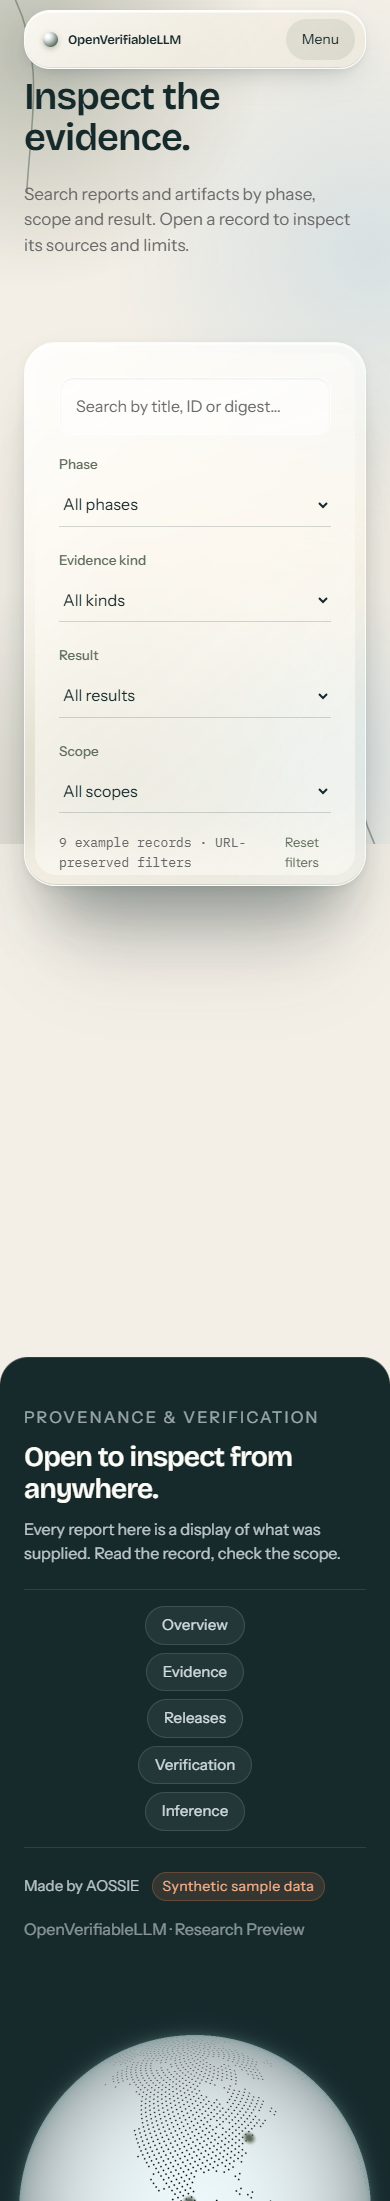
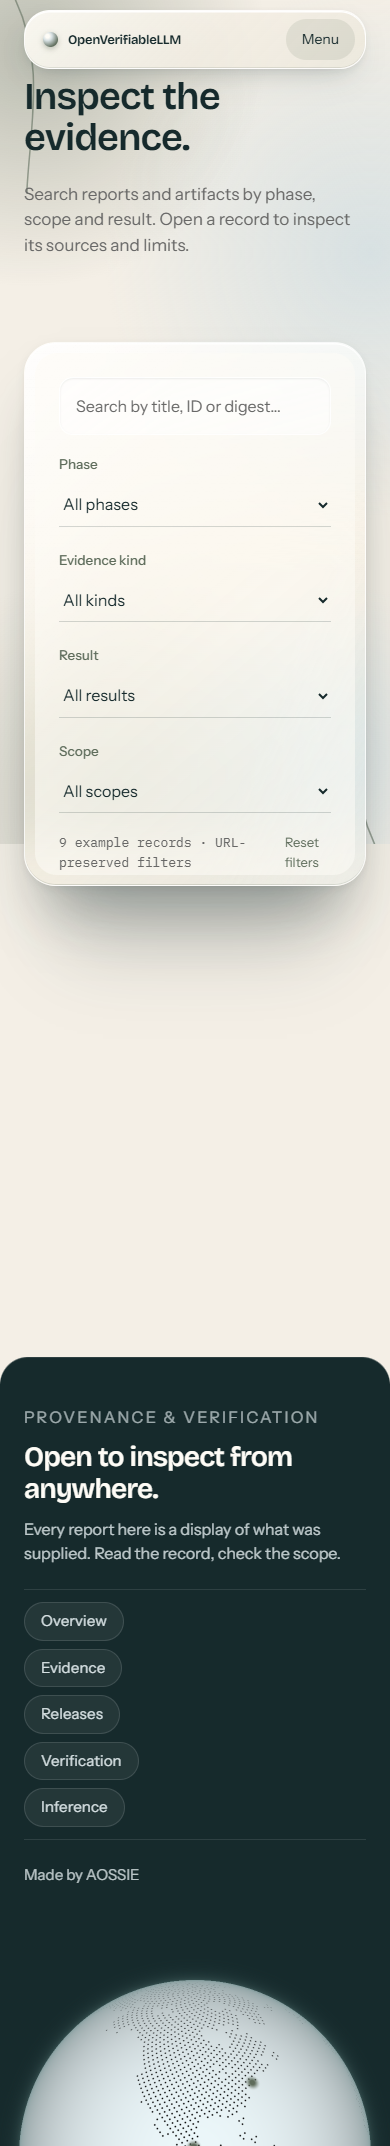
fix(ui): remove sample label & research preview, make mobile footer navigation vertical

diff --git a/frontend/src/styles.css b/frontend/src/styles.css
@@ -238,7 +238,9 @@ pre { white-space:pre-wrap; overflow-wrap:anywhere; max-height:360px; overflow:a
   .profile > div:first-child { padding-right:0; } .profile > div:last-child { border-left:0; padding-left:0; }
   .scroll-lines { opacity:.35; } .scroll-card-inner { padding:14px; }
   .footer-title { font-size:28px; } .site-footer { border-radius:28px 28px 0 0; min-height:560px; } .footer-inner { padding-top:48px; padding-bottom:260px; }
-  .footer-content { max-width:100%; gap:24px; } .footer-nav { gap:8px; }
+  .footer-content { max-width:100%; gap:24px; }
+  .footer-nav { display:flex; flex-direction:column; align-items:flex-start; gap:8px; padding:12px 0; }
+  .footer-nav-link { display:inline-flex; padding:7px 16px; font-size:14px; width:auto; }
   .footer-globe { right:50%; transform:translateX(50%); width:440px; height:440px; bottom:-230px; }
   .release-card { padding:24px; }
   .inference-panel { padding:24px; } .inference-panel h2 { font-size:32px; }

diff --git a/frontend/src/chrome.tsx b/frontend/src/chrome.tsx
@@ -54,9 +54,7 @@ export function SiteFooter({ nav, sample }: { nav: string[][]; sample: boolean }
         <div className="footer-bottom">
           <div className="footer-credit">
             <a href="https://github.com/AOSSIE-Org/OpenVerifiableLLM" target="_blank" rel="noopener noreferrer">Made by AOSSIE<span className="sr-only"> (external, opens in a new tab)</span></a>
-            {sample && <span className="sample-label">Synthetic sample data</span>}
           </div>
-          <p className="footer-note">OpenVerifiableLLM · Research Preview</p>
         </div>
       </div>
     </div>
